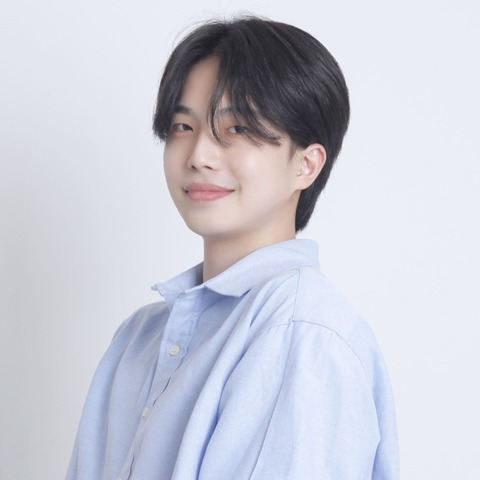
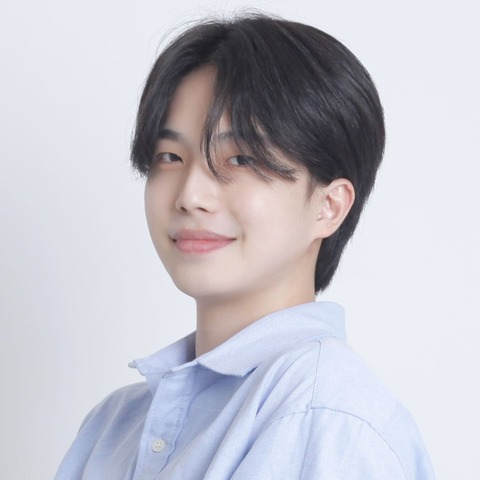
fix: add profile img

diff --git a/index.html b/index.html
@@ -85,7 +85,7 @@
                   <p style="padding-top:5px">
                     I am an Assistant Researcher at the Agent Research Center,
                     <a href="https://www.kisti.re.kr/">Korea Institute of Science and Technology Information (KISTI)</a>,
-                    advised by <a href="https://scholar.google.com/citations?user=U2eVyDMAAAAJ&hl=en">Heyoung Yang</a>.
+                    advised by <a href="https://scholar.google.com/citations?user=U2eVyDMAAAAJ&hl=en">Dr. Heyoung Yang</a>.
                   </p>
                   <p>
                     I am also pursuing a part-time Master's degree in the Department of Computer Science at
@@ -93,7 +93,7 @@
                     advised by <a href="https://scholar.google.com/citations?user=VLIH-RQAAAAJ&hl=en">Prof. Hajin Yu</a>.
                   </p>
                   <p>
-                    My research focuses on [your research topics].
+                    My research primarily focuses on <b>AI evaluation</b>.
                   </p>
 
                   <p style="text-align:center;padding-top:5px">
